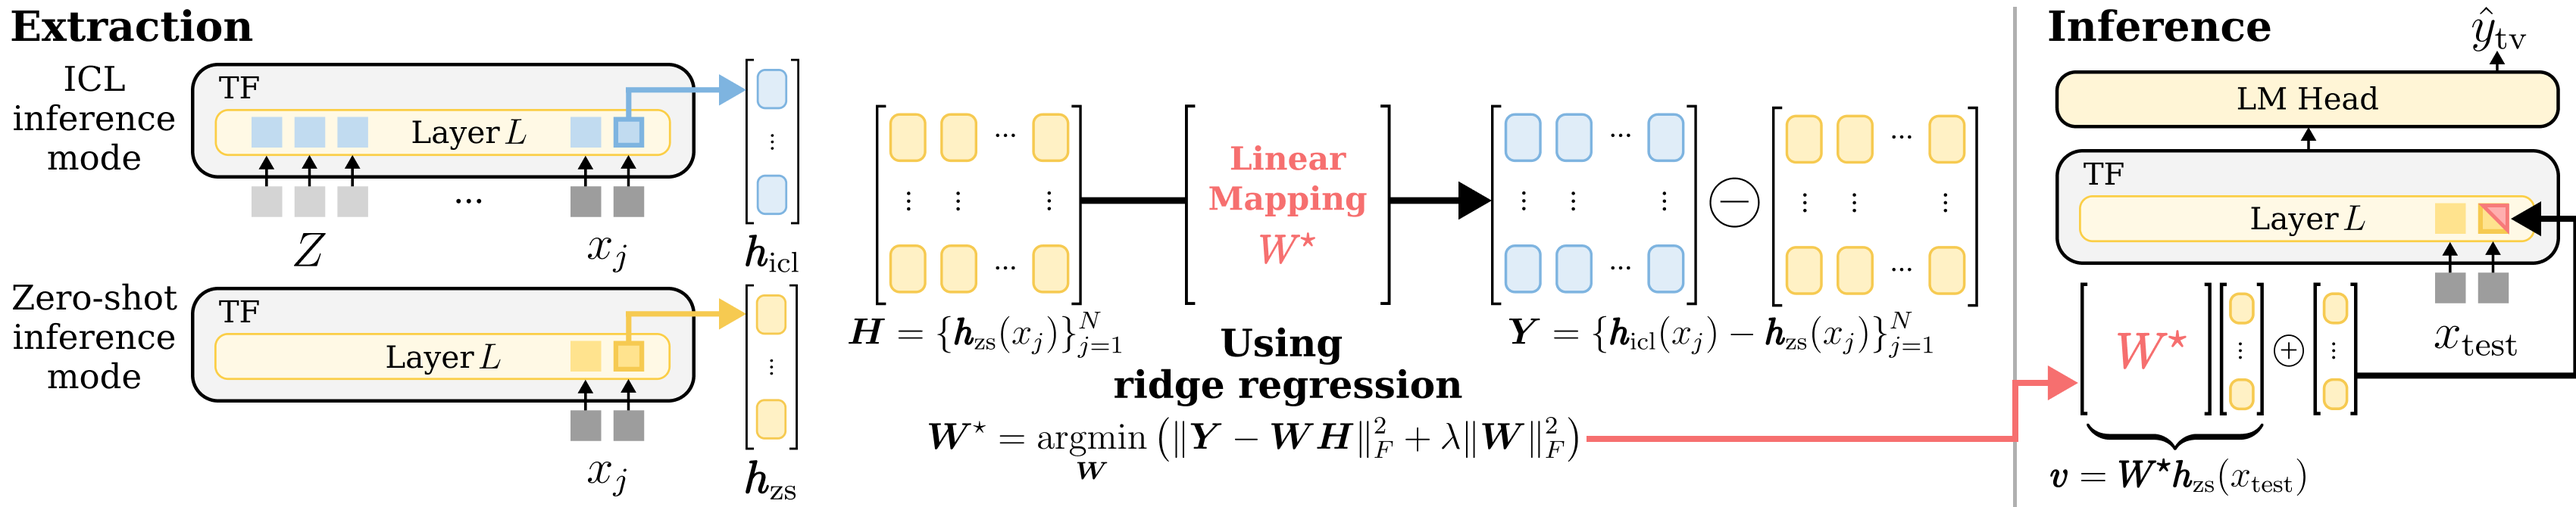
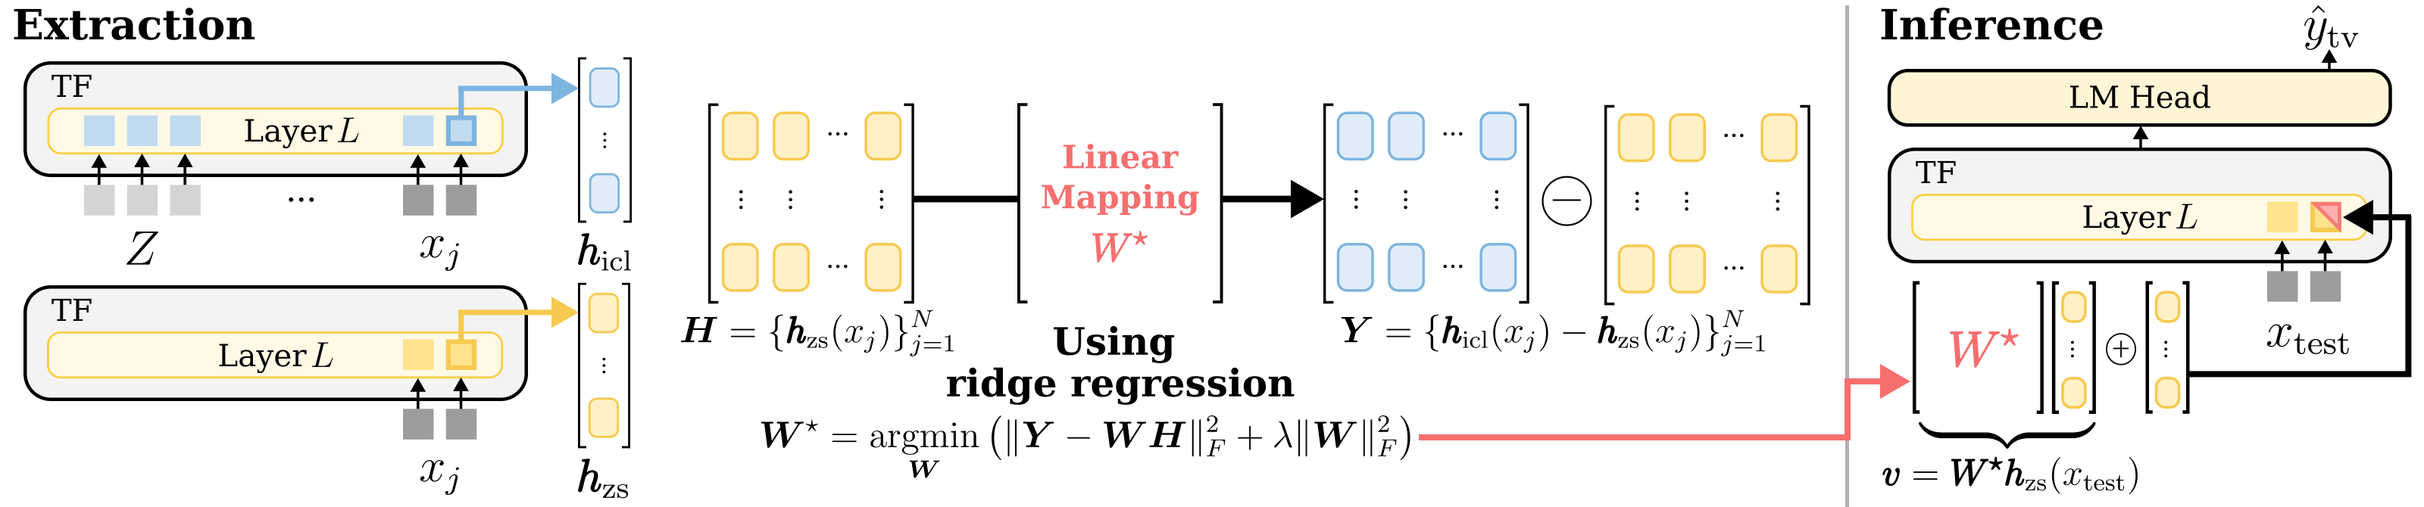
update readme

diff --git a/README.md b/README.md
@@ -6,7 +6,7 @@ This repository provides the official code and data for Distributional Alignment
 We posit that probabilistic alignment with ICL is a key desideratum for effective TV extraction methods, and accordingly propose **d_NTP** and **Linear Task Vector (LTV)**.
 
 <p align="center">
-    <img src="assets/metric.png" alt="d_NTP metric" width="400">
+    <img src="assets/metric.png" alt="d_NTP metric" width="500">
 </p>
 
 - **d_NTP** is a metric that quantifies TV quality by measuring the discrepancy between the predictive distribution under TV-based inference and that under ICL-based inference, in terms of next-token probability (NTP).
